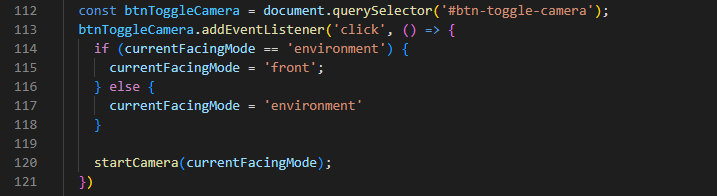
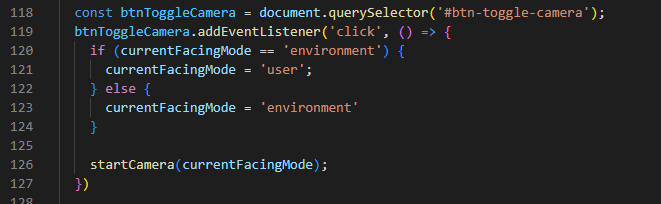
Update posts “como-criar-uma-camera-utilizando-as-apis-nativas-do-javascript”

diff --git a/posts/como-criar-uma-camera-utilizando-as-apis-nativas-do-javascript.md b/posts/como-criar-uma-camera-utilizando-as-apis-nativas-do-javascript.md
@@ -115,8 +115,24 @@ Não podemos esquecer de chamar o método startCamera (linha 90) logo após para
 
 **Linha 120:** Inicializando a câmera passando o novo facingMode. 
 
-**Observação:** Caso o dispositivo não suporte o facingMode: ‘front’ que corresponde a câmera frontal, o método getUserMedia sempre inicializará com a câmera padrão (environment). 
+
+
+#### Modificação no método "*startCamera*":
+
+![alteração código método start e novo metódo stopCamera](/images/passo-4-2.png "Alteração código método start e novo metódo stopCamera")
+
+Adicionei um novo método chamado **stopCamera (linhas 90-95)** para desabilitar a câmera atual (verificando se ela está ativa antes) e possibilitando a troca entre as duas câmeras. Daí é só chamar este método toda vez que precisarmos inicializar a câmera com novas propriedades;
+
+**Observação:** Caso o dispositivo não suporte o facingMode: ‘user’ que corresponde a câmera frontal, o método **getUserMedia** sempre inicializará com a câmera padrão (*environment*). 
 
 
 
-## Código fonte
+## Código-fonte 
+
+Todo código-fonte do exemplo se encontra neste repositório do github;
+
+Também está publicado na vercel e pode ser acessado por esse link.
+
+## Conclusão
+
+Espero que tenham gostado e aprendido um pouco com este tutorial assim como eu. Caso tenham dúvidas podem deixar nos comentários aqui em baixo ou me mandar em um dos meus contatos deixados na página [sobre mim](https://www.gustavooliveira.dev/about).
